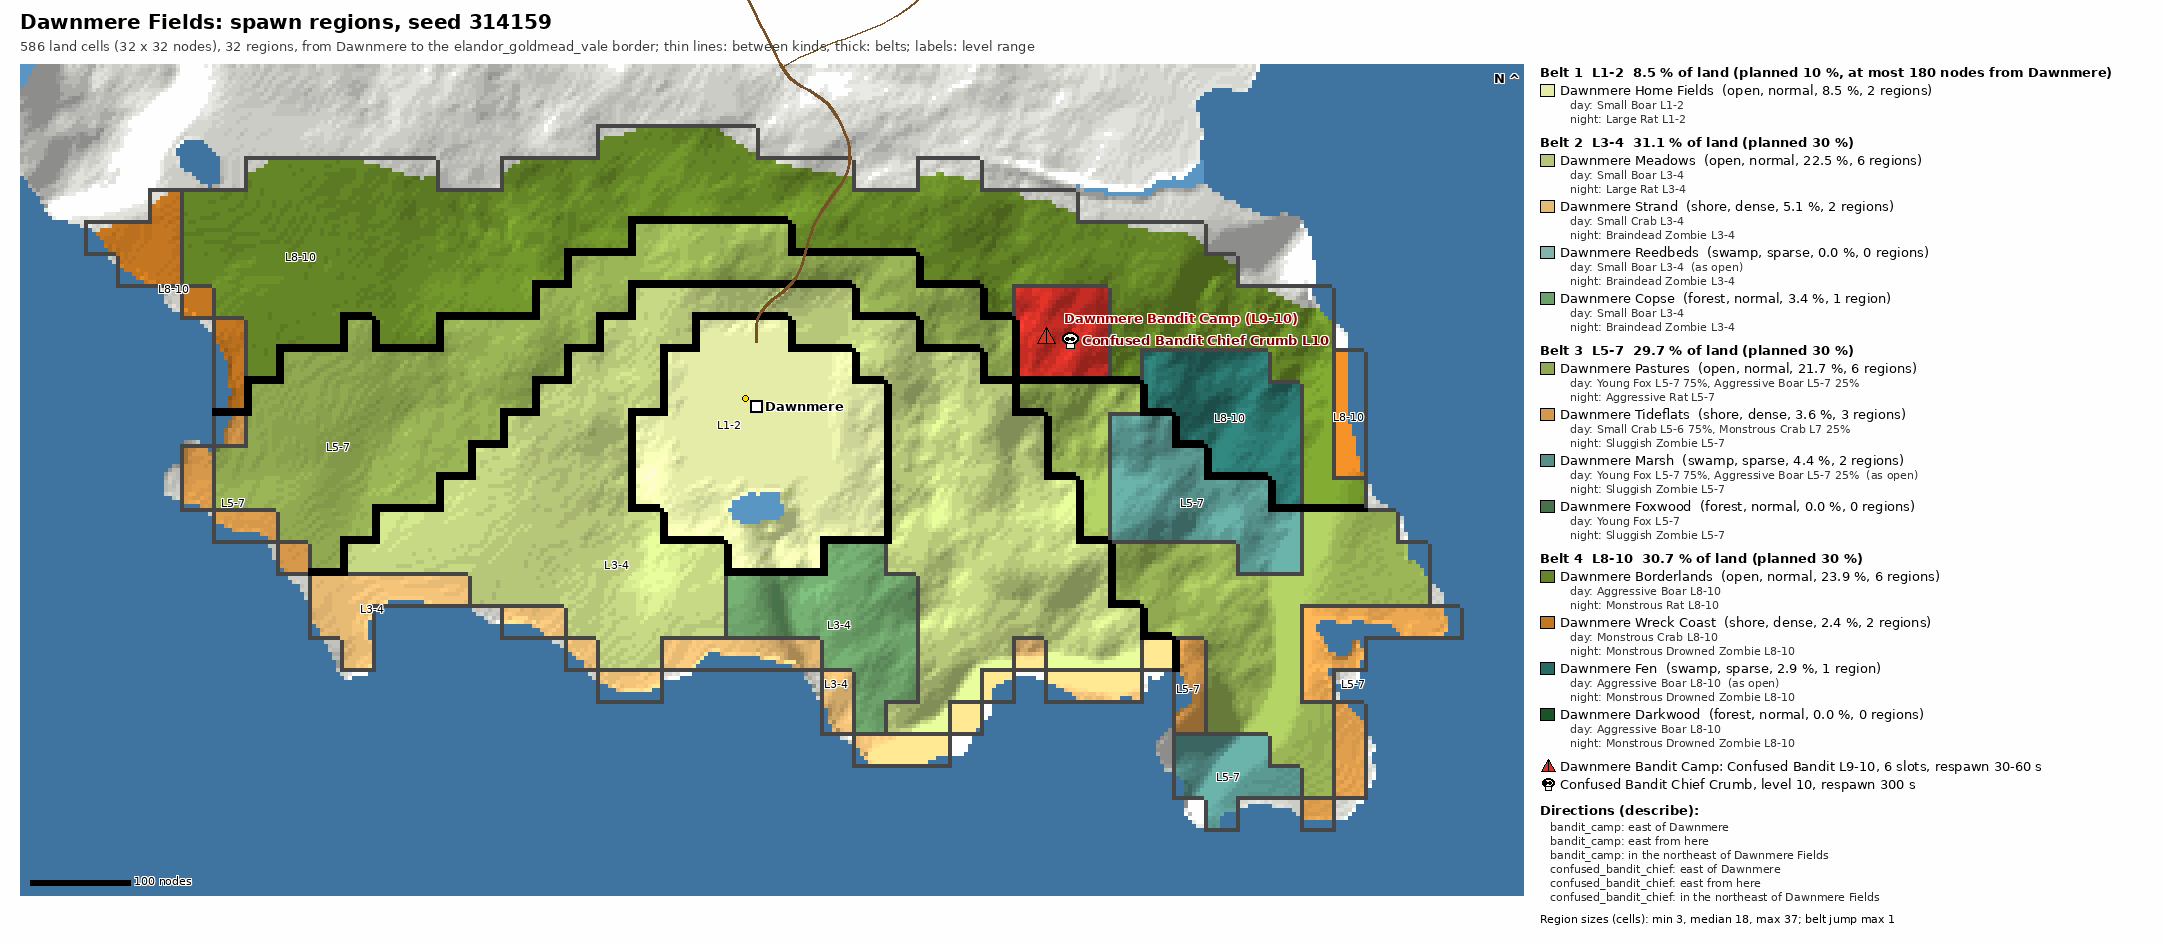
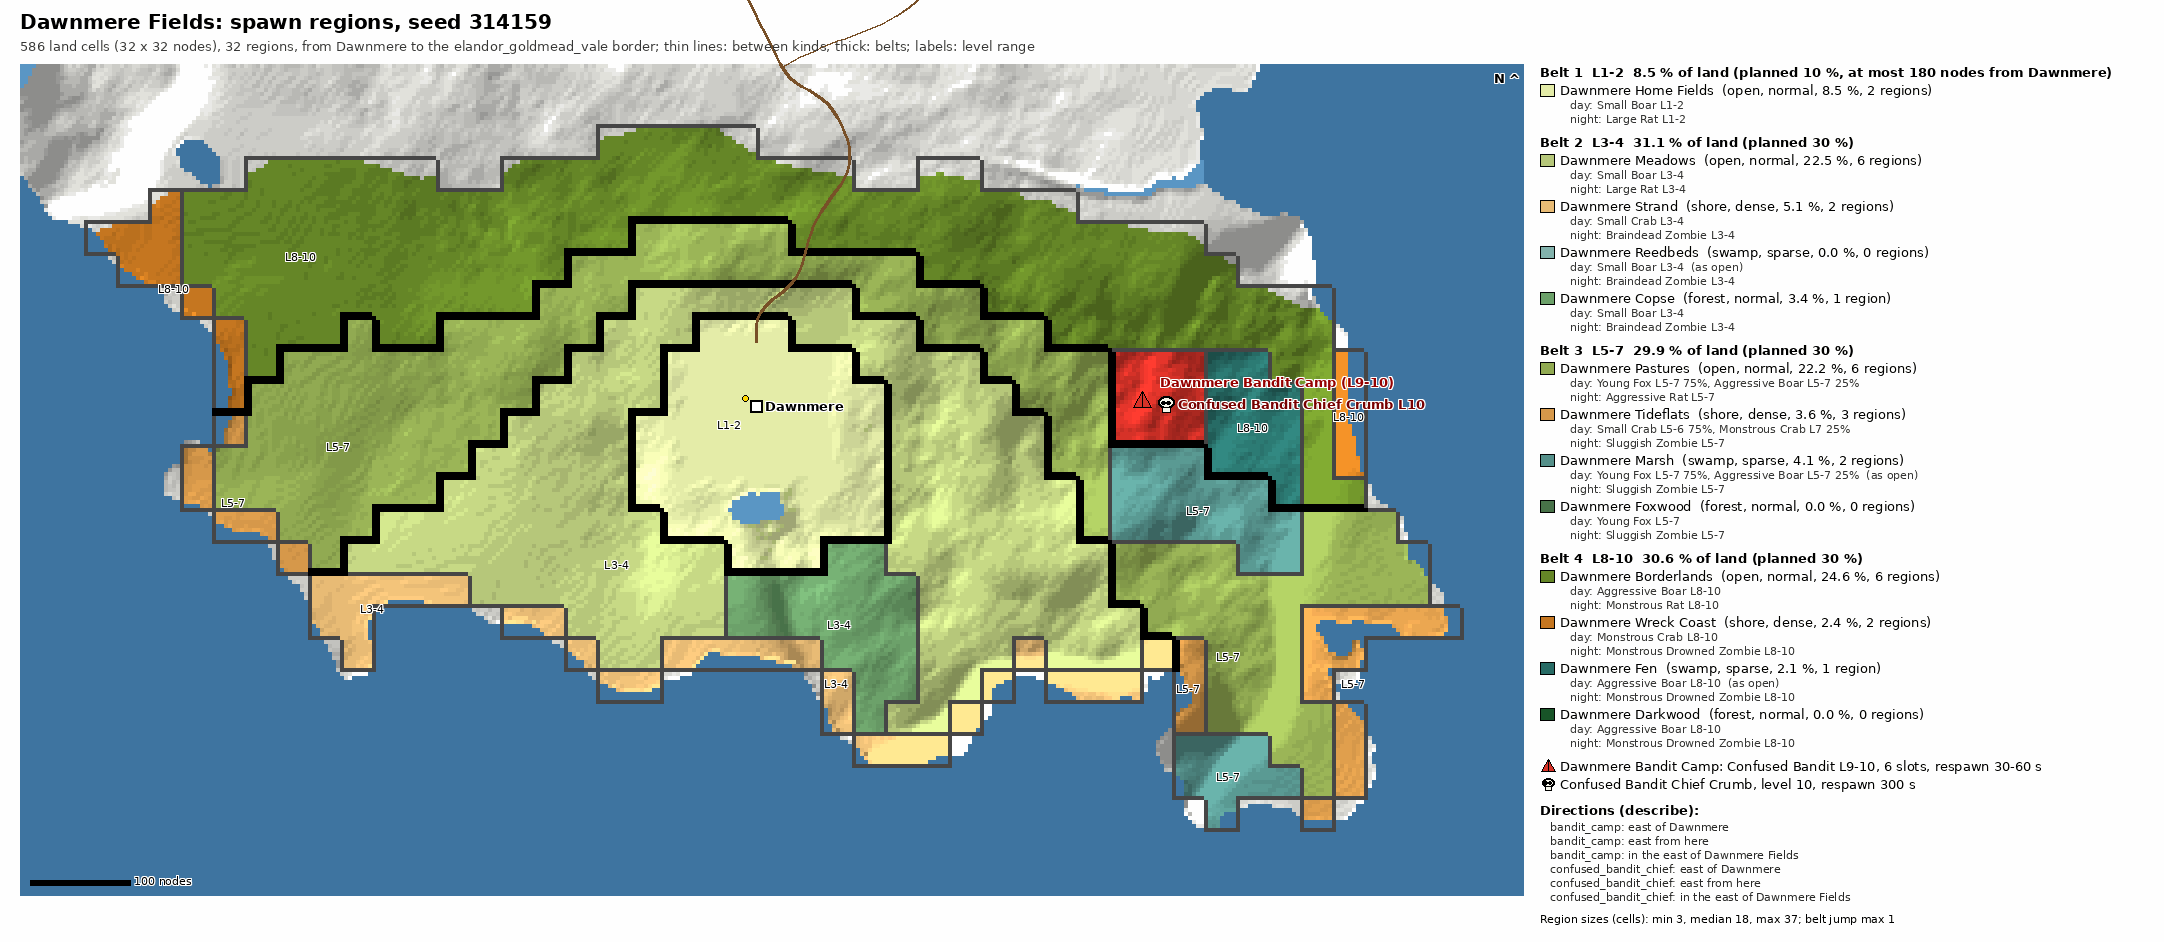
Round 28 S2c: re-rendered Shattered Line seed 7 (fragment kept, Engine Nine by fallback) and Dawnmere seed 314159 (camp moved to keep the one-belt step)

Changed region(s): [[0.4644, 0.2771, 0.6502, 0.4926], [0.774, 0.8928, 0.836, 0.9544], [0.5263, 0.5234, 0.5573, 0.5541]]

diff --git a/docs/planning/round28/regions/dawnmere/seed_314159.md b/docs/planning/round28/regions/dawnmere/seed_314159.md
@@ -2,7 +2,7 @@
 
 Generated by `tools/r28_regions/run.sh` from the shipped recipe (`mods/ENTITIES/grug_mobs/data/zones/elandor_dawnmere_fields.spawns.json`); image `seed_314159.png`.
 
-Build: world 18.0 s, region map 0.26 s (CPU, LuaJIT, offline); the map holds about 538 KiB, the first build 6636 KiB with the planner's column cache it warms. 586 land cells, 32 regions, 0 islet cells, 0 cells smoothed (belt step-down).
+Build: world 18.2 s, region map 0.34 s (CPU, LuaJIT, offline); the map holds about 6 KiB, the first build 11661 KiB with the planner's column cache it warms. 586 land cells, 32 regions, 0 islet cells, 0 cells smoothed (belt step-down).
 
 ## Belts
 
@@ -10,8 +10,8 @@ Build: world 18.0 s, region map 0.26 s (CPU, LuaJIT, offline); the map holds abo
 |---|---|---|---|
 | l1_2 | L1-2 | 10 %, max 180 nodes | 8.5 % |
 | l3_4 | L3-4 | 30 % | 31.1 % |
-| l5_7 | L5-7 | 30 % | 29.7 % |
-| l8_10 | L8-10 | 30 % | 30.7 % |
+| l5_7 | L5-7 | 30 % | 29.9 % |
+| l8_10 | L8-10 | 30 % | 30.6 % |
 
 ## Kinds
 
@@ -22,24 +22,24 @@ Build: world 18.0 s, region map 0.26 s (CPU, LuaJIT, offline); the map holds abo
 | Dawnmere Strand (`strand`) | 2 | shore | dense | 5.1 % | 2 | Small Crab L3-4 | Braindead Zombie L3-4 |
 | Dawnmere Reedbeds (`reedbeds`) | 2 | swamp | sparse | 0.0 % | 0 | Small Boar L3-4 | Braindead Zombie L3-4 |
 | Dawnmere Copse (`copse`) | 2 | forest | normal | 3.4 % | 1 | Small Boar L3-4 | Braindead Zombie L3-4 |
-| Dawnmere Pastures (`pastures`) | 3 | open | normal | 21.7 % | 6 | Young Fox L5-7 75%, Aggressive Boar L5-7 25% | Aggressive Rat L5-7 |
+| Dawnmere Pastures (`pastures`) | 3 | open | normal | 22.2 % | 6 | Young Fox L5-7 75%, Aggressive Boar L5-7 25% | Aggressive Rat L5-7 |
 | Dawnmere Tideflats (`tideflats`) | 3 | shore | dense | 3.6 % | 3 | Small Crab L5-6 75%, Monstrous Crab L7 25% | Sluggish Zombie L5-7 |
-| Dawnmere Marsh (`marsh`) | 3 | swamp | sparse | 4.4 % | 2 | Young Fox L5-7 75%, Aggressive Boar L5-7 25% | Sluggish Zombie L5-7 |
+| Dawnmere Marsh (`marsh`) | 3 | swamp | sparse | 4.1 % | 2 | Young Fox L5-7 75%, Aggressive Boar L5-7 25% | Sluggish Zombie L5-7 |
 | Dawnmere Foxwood (`foxwood`) | 3 | forest | normal | 0.0 % | 0 | Young Fox L5-7 | Sluggish Zombie L5-7 |
-| Dawnmere Borderlands (`borderlands`) | 4 | open | normal | 23.9 % | 6 | Aggressive Boar L8-10 | Monstrous Rat L8-10 |
+| Dawnmere Borderlands (`borderlands`) | 4 | open | normal | 24.6 % | 6 | Aggressive Boar L8-10 | Monstrous Rat L8-10 |
 | Dawnmere Wreck Coast (`wreck_coast`) | 4 | shore | dense | 2.4 % | 2 | Monstrous Crab L8-10 | Monstrous Drowned Zombie L8-10 |
-| Dawnmere Fen (`fen`) | 4 | swamp | sparse | 2.9 % | 1 | Aggressive Boar L8-10 | Monstrous Drowned Zombie L8-10 |
+| Dawnmere Fen (`fen`) | 4 | swamp | sparse | 2.1 % | 1 | Aggressive Boar L8-10 | Monstrous Drowned Zombie L8-10 |
 | Dawnmere Darkwood (`darkwood`) | 4 | forest | normal | 0.0 % | 0 | Aggressive Boar L8-10 | Monstrous Drowned Zombie L8-10 |
 | Dawnmere Bandit Camp (`bandit_camp`) | camp | - | slots 6 | 1.5 % | 1 | Confused Bandit L9-10 | Confused Bandit L9-10 |
 
 ## Region sizes
 
-Cells per region (32 x 32 nodes each), sorted: 3 4 6 8 8 9 10 12 12 13 17 17 17 18 18 18 18 18 19 20 20 20 22 22 23 26 26 27 29 32 37 37. Min 3, median 18, max 37; largest belt difference between adjacent regions: 1.
+Cells per region (32 x 32 nodes each), sorted: 3 4 5 6 8 8 9 10 12 12 15 15 15 16 16 17 18 18 19 20 22 22 23 24 24 27 29 30 32 33 37 37. Min 3, median 18, max 37; largest belt difference between adjacent regions: 1.
 
 ## Camps and leaders
 
-- Camp `bandit_camp` at (304, -2480): score 1.66, nearest road 128 nodes, levels L9-10.
-- Leader Confused Bandit Chief Crumb (`confused_bandit_chief`) at (304, -2480), level 10, respawn 300 s.
+- Camp `bandit_camp` at (400, -2544): score 1.65, nearest road 128 nodes, levels L9-10.
+- Leader Confused Bandit Chief Crumb (`confused_bandit_chief`) at (400, -2544), level 10, respawn 300 s.
 
 ## Directions
 
@@ -47,8 +47,8 @@ Reference place: Dawnmere at (0, -2550); quest giver: the elder (hall_quest) at 
 
 | Target | Of the place | From the giver | Within the zone |
 |---|---|---|---|
-| Dawnmere Bandit Camp | east of Dawnmere (312) | east from here (321) | in the northeast of Dawnmere Fields (280) |
-| Confused Bandit Chief Crumb | east of Dawnmere (312) | east from here (321) | in the northeast of Dawnmere Fields (280) |
+| Dawnmere Bandit Camp | east of Dawnmere (400) | east from here (411) | in the east of Dawnmere Fields (358) |
+| Confused Bandit Chief Crumb | east of Dawnmere (400) | east from here (411) | in the east of Dawnmere Fields (358) |
 | Dawnmere Home Fields | near Dawnmere (32) | nearby (31) | in the heart of Dawnmere Fields (74) |
 | Dawnmere Meadows | southwest of Dawnmere (210) | southwest from here (209) | in the southwest of Dawnmere Fields (221) |
 | Dawnmere Strand | south of Dawnmere (288) | south from here (298) | in the south of Dawnmere Fields (243) |
@@ -56,11 +56,11 @@ Reference place: Dawnmere at (0, -2550); quest giver: the elder (hall_quest) at 
 | Dawnmere Copse | south of Dawnmere (233) | southeast from here (245) | in the south of Dawnmere Fields (186) |
 | Dawnmere Pastures | west of Dawnmere (420) | west from here (410) | in the west of Dawnmere Fields (463) |
 | Dawnmere Tideflats | southeast of Dawnmere (658) | southeast from here (672) | in the southeast of Dawnmere Fields (603) |
-| Dawnmere Marsh | east of Dawnmere (446) | east from here (458) | in the east of Dawnmere Fields (395) |
+| Dawnmere Marsh | east of Dawnmere (454) | east from here (467) | in the east of Dawnmere Fields (403) |
 | Dawnmere Foxwood | - | - | - |
 | Dawnmere Borderlands | west of Dawnmere (480) | west from here (467) | in the northwest of Dawnmere Fields (534) |
 | Dawnmere Wreck Coast | west of Dawnmere (594) | west from here (582) | in the northwest of Dawnmere Fields (646) |
-| Dawnmere Fen | east of Dawnmere (474) | east from here (485) | in the east of Dawnmere Fields (429) |
+| Dawnmere Fen | east of Dawnmere (496) | east from here (508) | in the east of Dawnmere Fields (451) |
 | Dawnmere Darkwood | - | - | - |
 
 Distances in nodes (zone column: from the zone's land centre). A kind points at its largest region.
@@ -72,8 +72,8 @@ Distances in nodes (zone column: from the zone's land centre). A kind points at 
 | home_fields | nearby | southeast (18), nearby (32) | 1 | 36 % |
 | meadows | southwest | southeast (22), southwest (29), southeast (18), southwest (19), east (27), west (17) | 4 | 64 % |
 | strand | south | south (22), southwest (8) | 1 | 27 % |
-| pastures | west | southeast (20), east (18), west (37), east (12), west (23), northeast (17) | 4 | 53 % |
+| pastures | west | southeast (24), east (15), west (37), east (16), west (23), northeast (15) | 4 | 54 % |
 | tideflats | southeast | southeast (12), southeast (3), west (6) | 1 | 29 % |
-| marsh | east | southeast (8), east (18) | 1 | 31 % |
-| borderlands | west | east (13), west (37), east (18), northwest (26), northeast (20), north (26) | 5 | 74 % |
+| marsh | east | southeast (8), east (16) | 1 | 33 % |
+| borderlands | west | east (5), west (37), east (15), northwest (30), northeast (33), north (24) | 5 | 74 % |
 | wreck_coast | west | east (4), west (10) | 1 | 29 % |

diff --git a/docs/planning/round28/regions/shattered/seed_7.md b/docs/planning/round28/regions/shattered/seed_7.md
@@ -2,14 +2,14 @@
 
 Generated by `tools/r28_regions/run.sh` from the shipped recipe (`mods/ENTITIES/grug_mobs/data/zones/front_shattered_line.spawns.json`); image `seed_7.png`.
 
-Build: world 16.0 s, region map 0.26 s (CPU, LuaJIT, offline); the map holds about 553 KiB, the first build -13011 KiB with the planner's column cache it warms. 609 land cells, 28 regions, 0 islet cells, 0 cells smoothed (belt step-down).
+Build: world 16.0 s, region map 0.26 s (CPU, LuaJIT, offline); the map holds about 554 KiB, the first build -13320 KiB with the planner's column cache it warms. 609 land cells, 29 regions, 0 islet cells, 0 cells smoothed (belt step-down).
 
 ## Belts
 
 | Belt | Levels | Planned | Land share |
 |---|---|---|---|
-| l41_43 | L41-43 | 30 % | 31.2 % |
-| l44_47 | L44-47 | 40 % | 39.7 % |
+| l41_43 | L41-43 | 30 % | 30.0 % |
+| l44_47 | L44-47 | 40 % | 40.9 % |
 | l48_50 | L48-50 | 30 % | 29.1 % |
 
 ## Kinds
@@ -17,9 +17,9 @@ Build: world 16.0 s, region map 0.26 s (CPU, LuaJIT, offline); the map holds abo
 | Kind | Belt | Type | Density | Land share | Regions | Day | Night |
 |---|---|---|---|---|---|---|---|
 | Shattered Line Approaches (`approaches`) | 1 | open | normal | 16.6 % | 4 | Warpack Hyena L41-43 75%, Siege Deserter L41-43 25% | Siege Skeleton Raider L41-43 75%, Siege Deserter L41-43 25% |
-| Shattered Line Sumps (`sumps`) | 1 | swamp | sparse | 4.6 % | 2 | Siege-Worn Sun-Dried Husk L41-43 75%, Battlefield Crow L41-43 25% | Siege-Worn Sun-Dried Husk L41-43 75%, War-Stinger Scorpion L41-43 25% |
+| Shattered Line Sumps (`sumps`) | 1 | swamp | sparse | 3.5 % | 2 | Siege-Worn Sun-Dried Husk L41-43 75%, Battlefield Crow L41-43 25% | Siege-Worn Sun-Dried Husk L41-43 75%, War-Stinger Scorpion L41-43 25% |
 | Shattered Line Bluffs (`bluffs`) | 1 | highland | normal | 10.0 % | 3 | Tallgrass Tiger L41-43 75%, Mesa Vulture L41-43 25% | War-Stinger Scorpion L41-43 75%, Siege-Worn Sun-Dried Husk L41-43 25% |
-| Shattered Line Trenches (`trenches`) | 2 | open | normal | 30.7 % | 9 | Warpack Hyena L44-47 75%, Siege Deserter L44-45 25% | Siege Skeleton Raider L44-47 75%, Siege Deserter Archer L46-47 25% |
+| Shattered Line Trenches (`trenches`) | 2 | open | normal | 31.9 % | 10 | Warpack Hyena L44-47 75%, Siege Deserter L44-45 25% | Siege Skeleton Raider L44-47 75%, Siege Deserter Archer L46-47 25% |
 | Shattered Line Mudholes (`mudholes`) | 2 | swamp | sparse | 0.0 % | 0 | Siege-Worn Sun-Dried Husk L44-45 75%, Unburied Mummy L46-47 25% | War-Stinger Scorpion L44-47 75%, Unburied Mummy L46-47 25% |
 | Shattered Line Ramparts (`ramparts`) | 2 | highland | normal | 9.0 % | 2 | Tallgrass Tiger L44-47 75%, Mesa Vulture L44-47 25% | War-Stinger Scorpion L44-47 75%, Unburied Mummy L46-47 25% |
 | Shattered Line Breach (`breach`) | 3 | open | normal | 25.8 % | 7 | Warpack Hyena L48-50 75%, Siege Deserter Archer L48-50 25% | Siege Skeleton Raider L48-50 75%, Siege Deserter Archer L48-50 25% |
@@ -28,12 +28,12 @@ Build: world 16.0 s, region map 0.26 s (CPU, LuaJIT, offline); the map holds abo
 
 ## Region sizes
 
-Cells per region (32 x 32 nodes each), sorted: 5 9 9 10 10 12 13 13 16 17 17 18 18 19 20 20 24 25 26 27 28 31 32 34 36 37 38 45. Min 5, median 20, max 45; largest belt difference between adjacent regions: 2.
+Cells per region (32 x 32 nodes each), sorted: 5 7 9 9 10 10 12 12 13 13 16 17 17 18 18 20 20 24 25 26 27 28 31 32 34 36 37 38 45. Min 5, median 18, max 45; largest belt difference between adjacent regions: 1.
 
 ## Camps and leaders
 
 - Leader Standard-Bearer Ninepins (`standard_bearer_ninepins`) at (1040, 80), level 48, respawn 300 s.
-- PROBLEM: no spot for leader siege_engine_nine
+- Leader War Construct Engine Nine (`siege_engine_nine`) at (944, 16), level 50, respawn 300 s. Its kind has no region on this seed: fallback to kind `breach` of the same belt.
 
 ## Directions
 
@@ -42,8 +42,9 @@ Reference place: none (no `from` anchor); quest giver: none (no start town).
 | Target | Of the place | From the giver | Within the zone |
 |---|---|---|---|
 | Standard-Bearer Ninepins | - | - | in the northeast of The Shattered Line (291) |
+| War Construct Engine Nine | - | - | in the heart of The Shattered Line (181) |
 | Shattered Line Approaches | - | - | in the northeast of The Shattered Line (380) |
-| Shattered Line Sumps | - | - | in the southeast of The Shattered Line (607) |
+| Shattered Line Sumps | - | - | in the southeast of The Shattered Line (614) |
 | Shattered Line Bluffs | - | - | in the west of The Shattered Line (721) |
 | Shattered Line Trenches | - | - | in the west of The Shattered Line (471) |
 | Shattered Line Mudholes | - | - | - |
